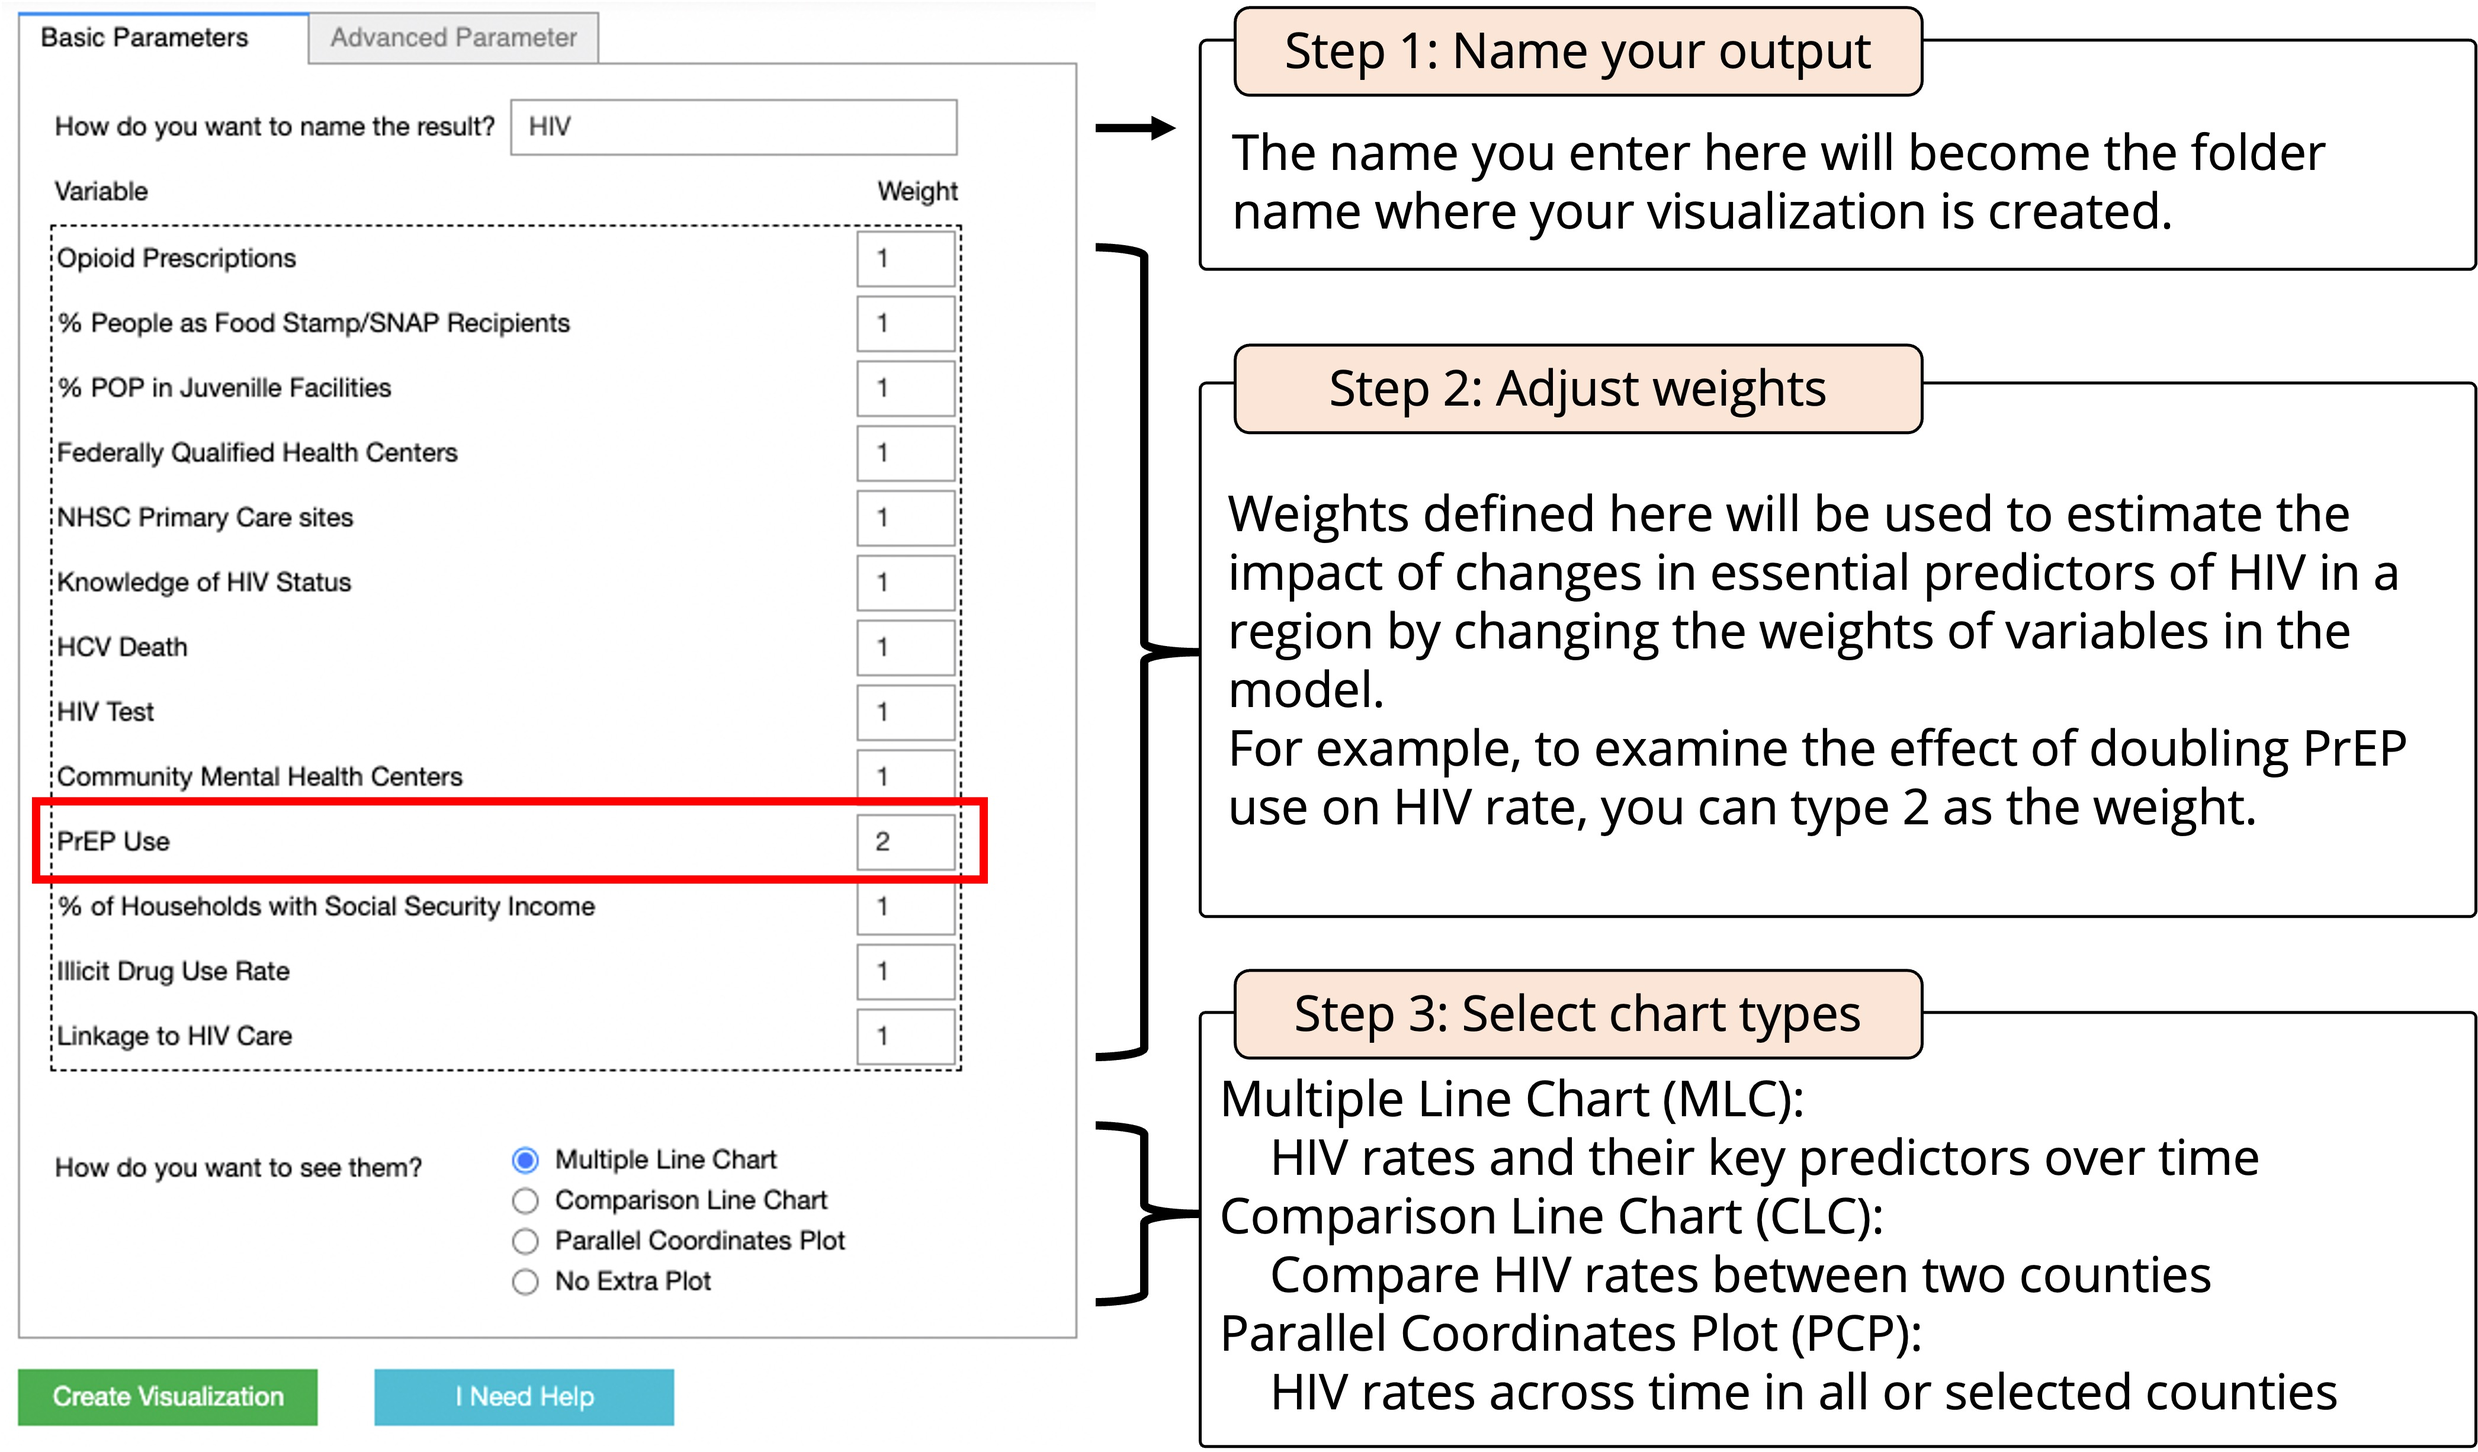
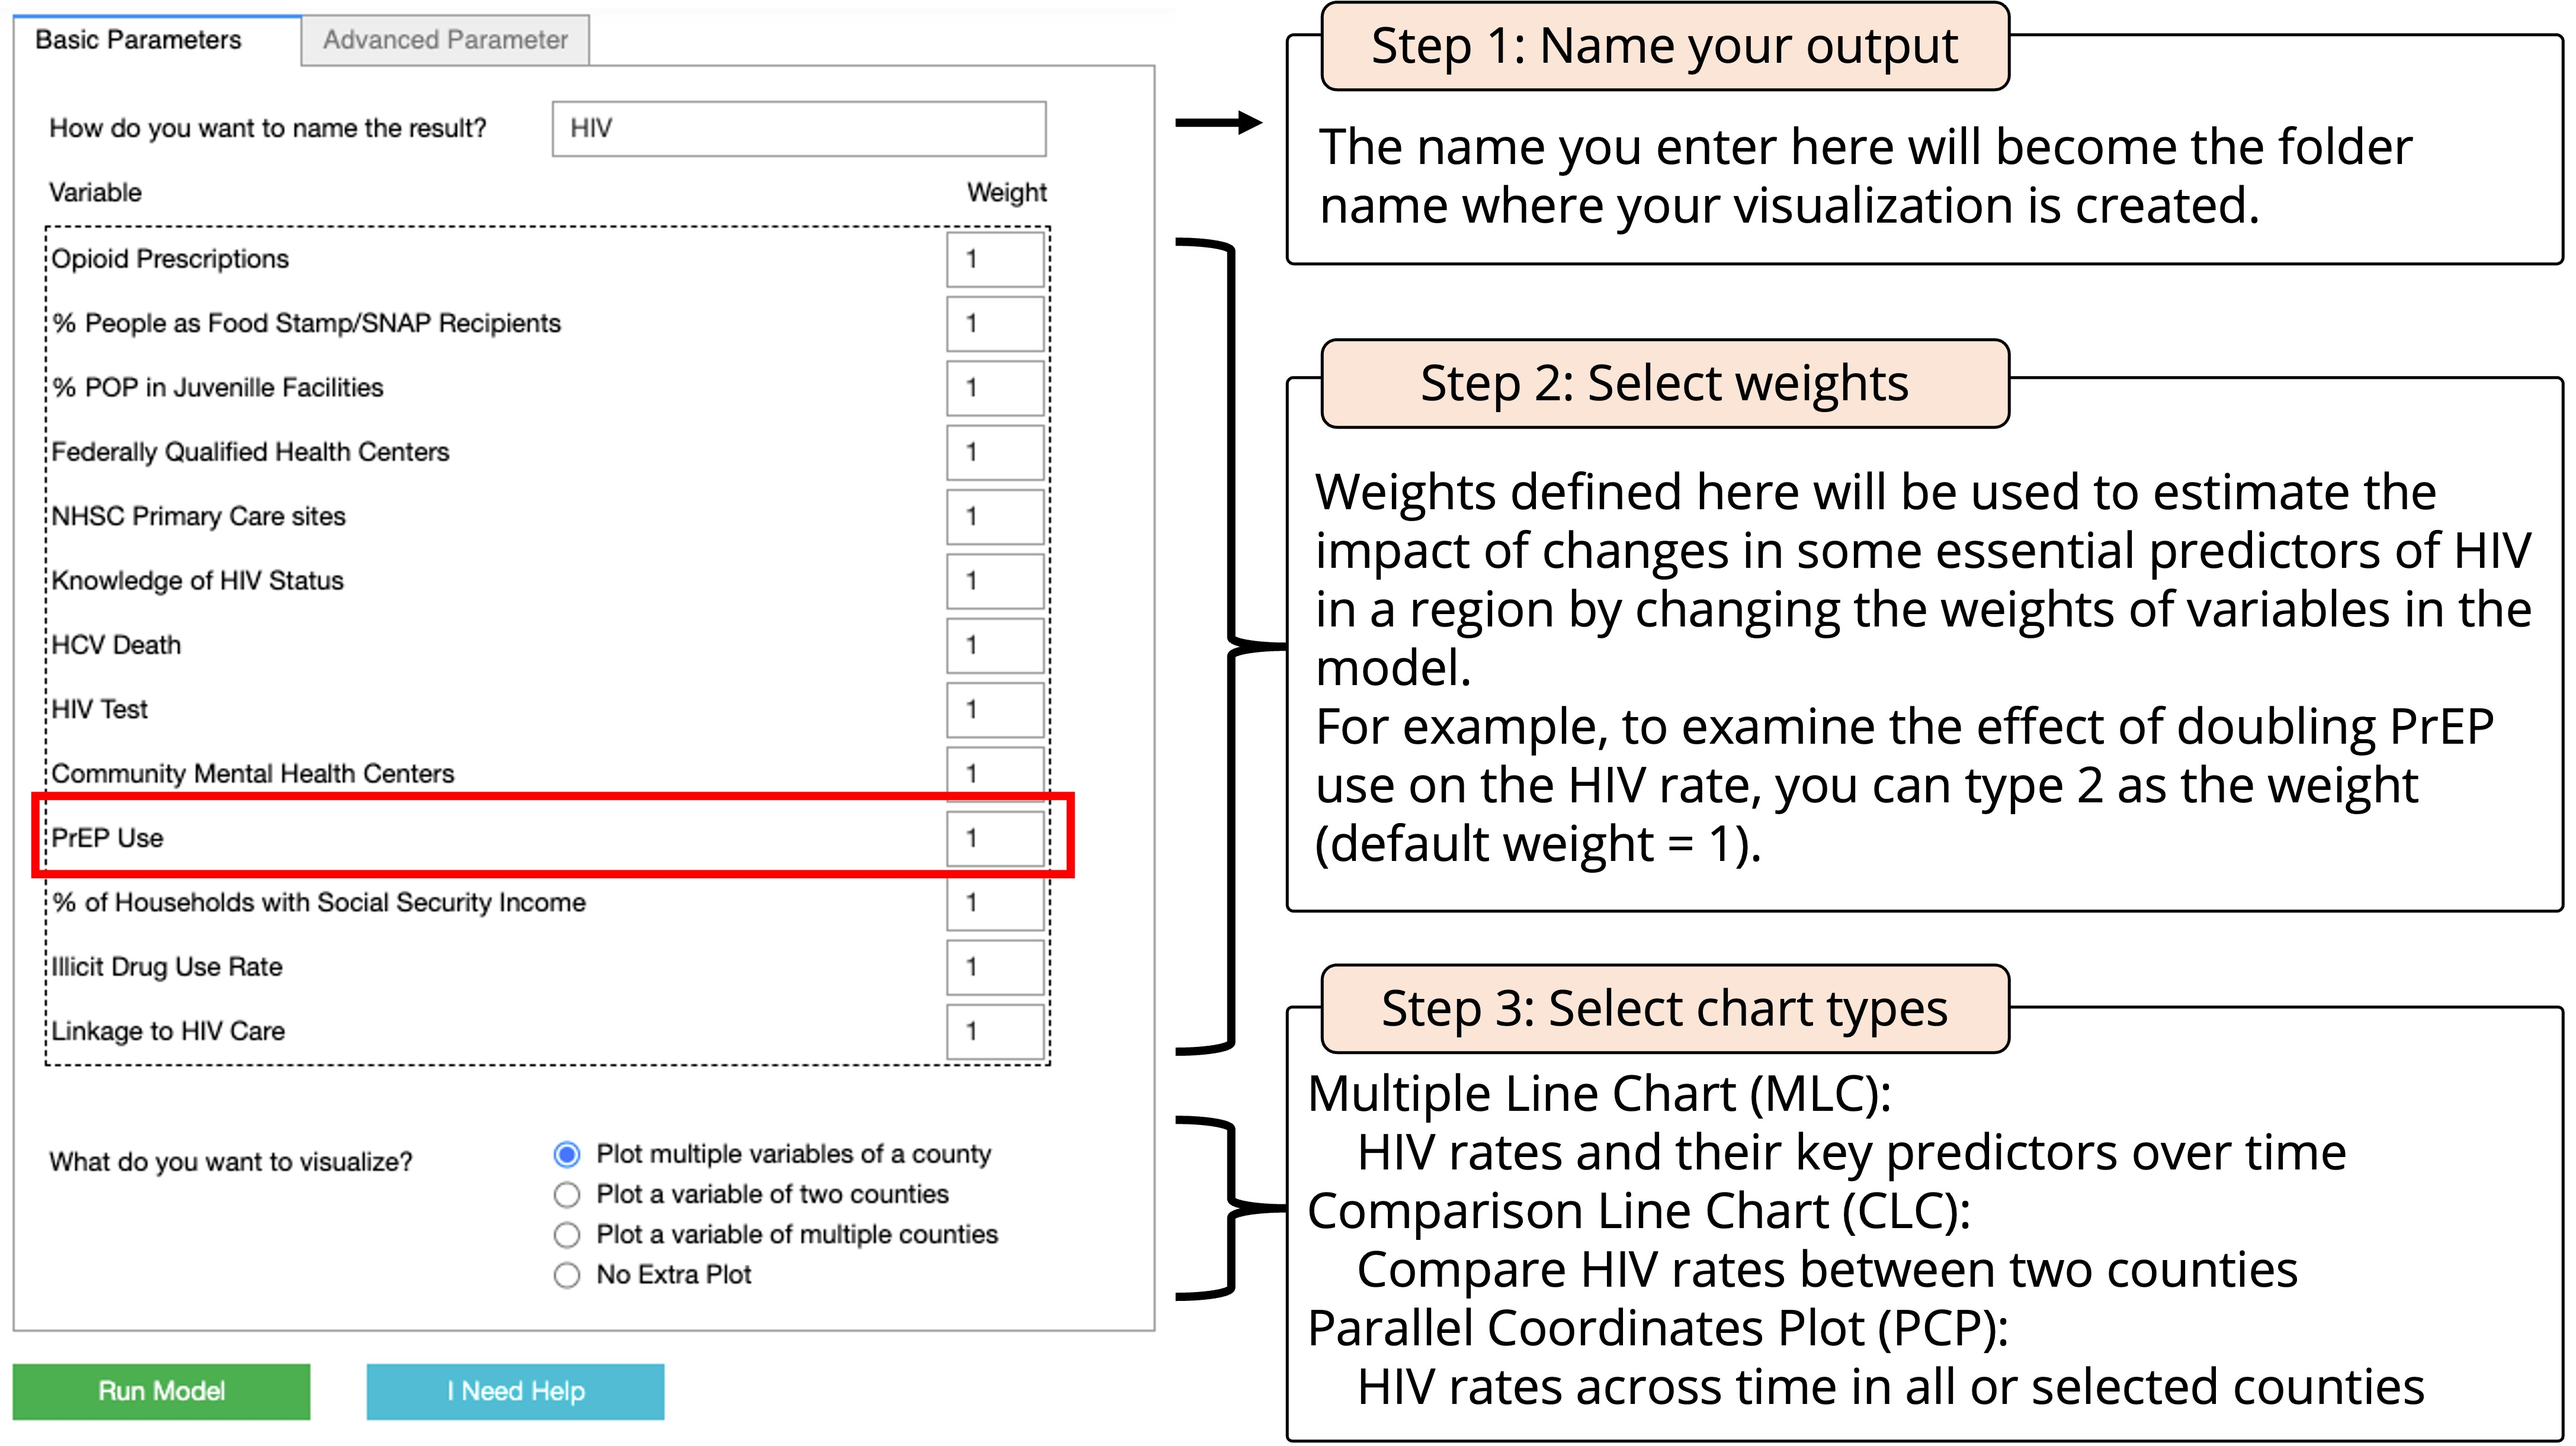
Update GUI

diff --git a/Scenario_Analysis_Mapper.py b/Scenario_Analysis_Mapper.py
@@ -434,7 +434,7 @@ def Display_GUI():
     form_item_layout = Layout(
     display='flex',
     flex_flow='row',
-    width='450px',
+    width='500px',
     justify_content='space-between'
     )
 
@@ -451,38 +451,39 @@ def Display_GUI():
     
         Box([Label(value='Variable'), Label(value='Weight')], layout=form_item_layout),
     
-        VBox([HBox([Label(value='Opioid Prescriptions', layout=Layout(width="400px")),
+        VBox([HBox([Label(value='Opioid Prescriptions', layout=Layout(width="450px")),
             BoundedIntText(min=1, max=10, value=1, layout=Layout(width="50px"))]),
-            HBox([Label(value='% People as Food Stamp/SNAP Recipients', layout=Layout(width="400px")),
+            HBox([Label(value='% People as Food Stamp/SNAP Recipients', layout=Layout(width="450px")),
             BoundedIntText(min=1, max=10, value=1, layout=Layout(width="50px"))]),
-            HBox([Label(value='% POP in Juvenille Facilities', layout=Layout(width="400px")),
+            HBox([Label(value='% POP in Juvenille Facilities', layout=Layout(width="450px")),
             BoundedIntText(min=1, max=10, value=1, layout=Layout(width="50px"))]),
-            HBox([Label(value='Federally Qualified Health Centers', layout=Layout(width="400px")),
+            HBox([Label(value='Federally Qualified Health Centers', layout=Layout(width="450px")),
             BoundedIntText(min=1, max=10, value=1, layout=Layout(width="50px"))]),
-            HBox([Label(value='NHSC Primary Care sites', layout=Layout(width="400px")),
+            HBox([Label(value='NHSC Primary Care sites', layout=Layout(width="450px")),
             BoundedIntText(min=1, max=10, value=1, layout=Layout(width="50px"))]),
-            HBox([Label(value='Knowledge of HIV Status', layout=Layout(width="400px")),
+            HBox([Label(value='Knowledge of HIV Status', layout=Layout(width="450px")),
             BoundedIntText(min=1, max=10, value=1, layout=Layout(width="50px"))]),
-            HBox([Label(value='HCV Death', layout=Layout(width="400px")),
+            HBox([Label(value='HCV Death', layout=Layout(width="450px")),
             BoundedIntText(min=1, max=10, value=1, layout=Layout(width="50px"))]),
-            HBox([Label(value='HIV Test', layout=Layout(width="400px")),
+            HBox([Label(value='HIV Test', layout=Layout(width="450px")),
             BoundedIntText(min=1, max=10, value=1, layout=Layout(width="50px"))]),
-            HBox([Label(value='Community Mental Health Centers', layout=Layout(width="400px")),
+            HBox([Label(value='Community Mental Health Centers', layout=Layout(width="450px")),
             BoundedIntText(min=1, max=10, value=1, layout=Layout(width="50px"))]),
-            HBox([Label(value='PrEP Use', layout=Layout(width="400px")),
+            HBox([Label(value='PrEP Use', layout=Layout(width="450px")),
             BoundedIntText(min=1, max=10, value=1, layout=Layout(width="50px"))]),
-            HBox([Label(value='% of Households with Social Security Income', layout=Layout(width="400px")),
+            HBox([Label(value='% of Households with Social Security Income', layout=Layout(width="450px")),
             BoundedIntText(min=1, max=10, value=1, layout=Layout(width="50px"))]),
-            HBox([Label(value='Illicit Drug Use Rate', layout=Layout(width="400px")),
+            HBox([Label(value='Illicit Drug Use Rate', layout=Layout(width="450px")),
             BoundedIntText(min=1, max=10, value=1, layout=Layout(width="50px"))]),
-            HBox([Label(value='Linkage to HIV Care', layout=Layout(width="400px")),
+            HBox([Label(value='Linkage to HIV Care', layout=Layout(width="450px")),
             BoundedIntText(min=1, max=10, value=1, layout=Layout(width="50px"))]),],
-            layout=Layout(width='450px', border='dashed 1px')),
+            layout=Layout(width='500px', border='dashed 1px')),
     
         Label(value=""),
         
-        Box([Label(value='How do you want to see them?', layout=Layout(width="300px")), 
-            RadioButtons(options=['Multiple Line Chart', "Comparison Line Chart", "Parallel Coordinates Plot", "No Extra Plot"])],
+        Box([Label(value='What do you want to visualize?', layout=Layout(width="300px")), 
+            RadioButtons(options=['Plot multiple variables of a county', "Plot a variable of two counties", 
+                                  "Plot a variable of multiple counties", "No Extra Plot"])],
             layout=form_item_layout),
     ])
 
@@ -616,7 +617,7 @@ def Display_GUI():
     #
     # basic.children[4].children[1].observe(additional_chart_change, names='value')
     
-    submit_button = Button(description="Create Visualization", button_style='success')
+    submit_button = Button(description="Run Model", button_style='success')
     help_button = Button(description="I Need Help", button_style="info")
     
     buttons = HBox([submit_button, Label(value='', layout=Layout(width='20px')), help_button])
